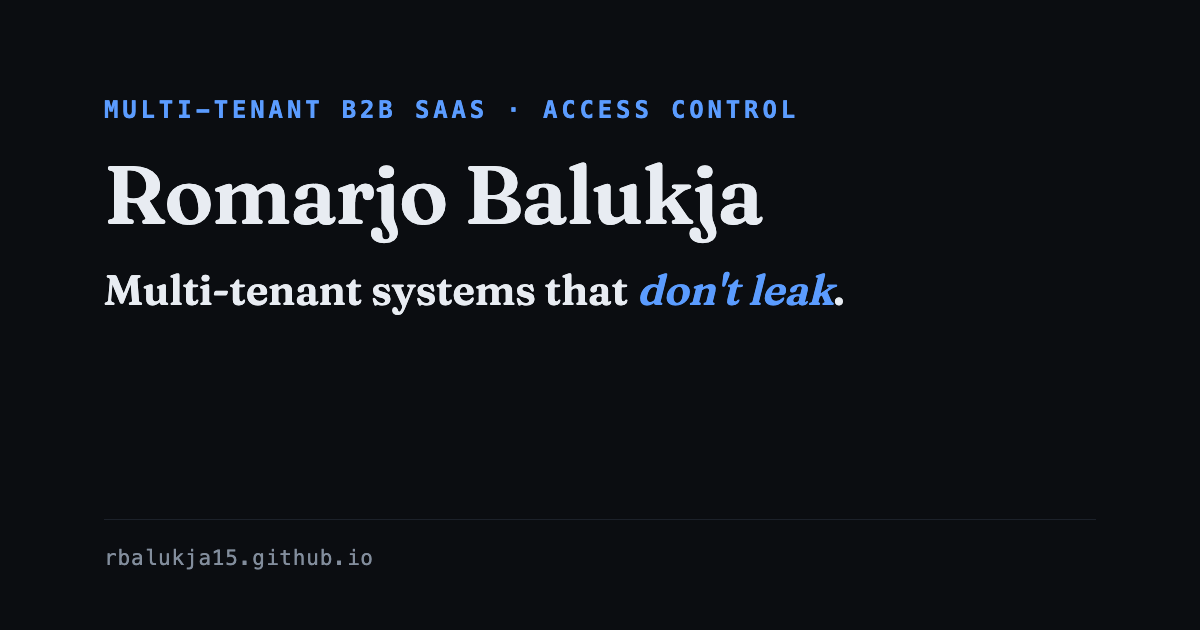
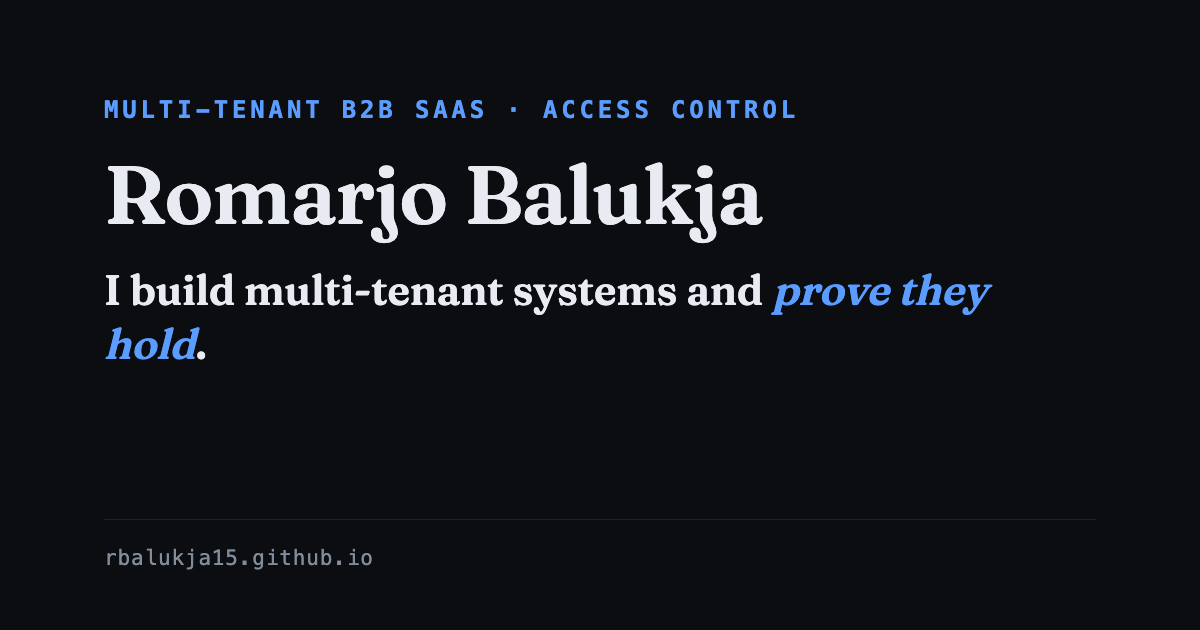
feat(hero): adopt the chosen headline across hero, card and metadata
'I build multi-tenant systems and prove they hold.' The accent half is the
claim that is actually backed by tests rather than asserted.

multi-tenant needs a U+2011 non-breaking hyphen: CSS has no property that
prevents a break at an existing hyphen, so the line was splitting after
'multi-'. The copy column widens slightly to carry the longer headline.

Closes the placeholder gate - no PLACEHOLDER markers remain in src/ or
scripts/, and the hero, OG card and meta description now say the same thing.

Changed region(s): [[0.0925, 0.4222, 0.8325, 0.5127], [0.0925, 0.5127, 0.185, 0.573]]

diff --git a/scripts/og-template.html b/scripts/og-template.html
@@ -78,7 +78,7 @@
     <div>
       <div class="kicker">Multi-tenant B2B SaaS &middot; Access control</div>
       <div class="name">Romarjo Balukja</div>
-      <div class="headline">Multi-tenant systems that <em>don't leak</em>.</div>
+      <div class="headline">I build multi-tenant systems and <em>prove they hold</em>.</div>
     </div>
     <div class="footer">
       <div class="url">rbalukja15.github.io</div>
